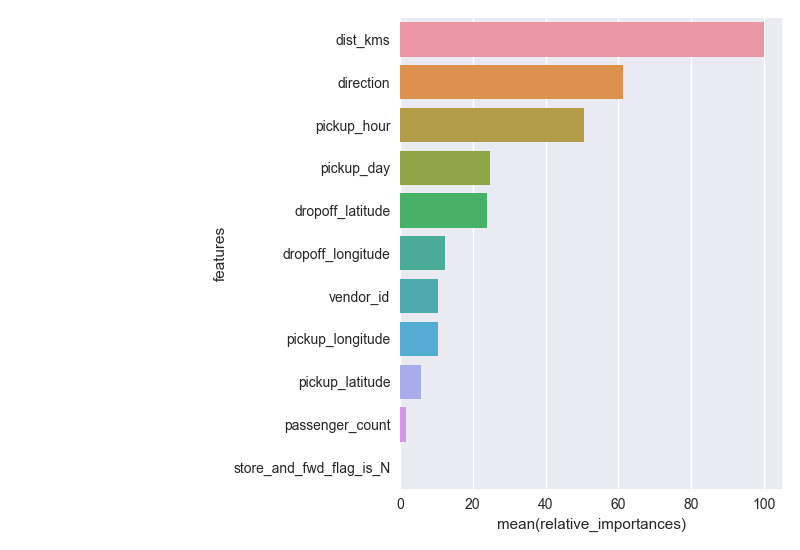
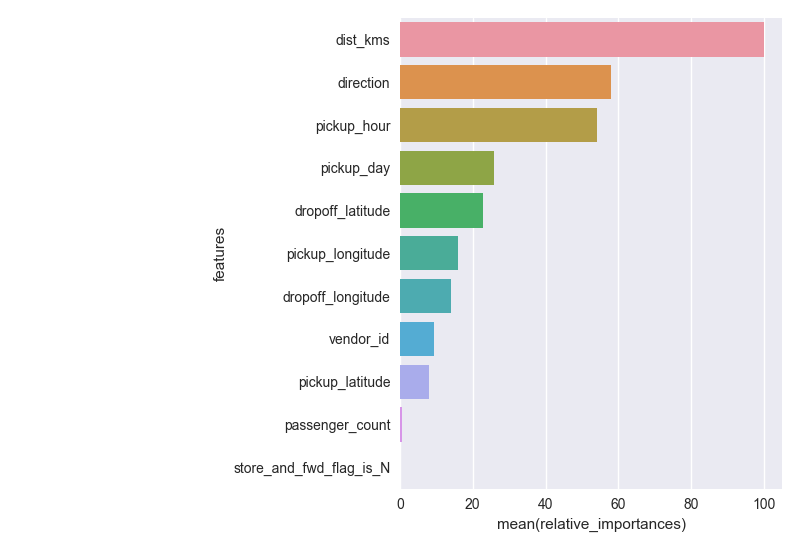
format code, modify readme

diff --git a/nyc_taxi_trip_duration/models/train_predict.py b/nyc_taxi_trip_duration/models/train_predict.py
@@ -15,6 +15,8 @@ from build_features import preprocess
 
 SAMPLE_SIZE = 1000000
 TARGET_VAR = 'trip_duration'
+
+#features to be used for modeling
 FEATURES = [
     'vendor_id',
     'pickup_hour',
@@ -29,6 +31,16 @@ FEATURES = [
     'direction'
     ]
 
+# parameters for gradient boosting regression
+# combination of learning_rate and subsample are used for regularization/
+# controlling overfitting
+GBR_PARAMS = {
+    'learning_rate':0.1,
+    'subsample':0.5,
+    'n_estimators':100
+    }
+
+#parameters for xgboost regression
 XGB_PARAMS = {
     'min_child_weight':50,
     'colsample_bytree':0.3,
@@ -38,14 +50,6 @@ XGB_PARAMS = {
     'silent':1,
     'eval_metric':'rmse',
     'objective': 'reg:linear'
-    }
-
-# combination of learning_rate and subsample are used for regularization/
-# controlling overfitting
-GBR_PARAMS = {
-    'learning_rate':0.1,
-    'subsample':0.5,
-    'n_estimators':100
     }
 
 def read_data(filename):
@@ -65,7 +69,7 @@ def get_regressor():
 
 def get_cv_scores(reg, train_data, train_target):
     """
-        Returns cross validated R squared scores
+        Returns cross validated R squared scores and root mean squared log error (RMSE)
     """
     scorer = make_scorer(r2_score, multioutput='variance_weighted')
     r2_scores = cross_val_score(reg, train_data, train_target, cv=4,
@@ -145,7 +149,7 @@ def train_xgboost(train_data, test_data, train_target, test_target):
     model = xgb.train(XGB_PARAMS, d_train, 200, watchlist, early_stopping_rounds=50,
                       maximize=False, verbose_eval=10)
 
-    print "xgb model results", model
+    print "XGB model results", model
     return model
 
 def get_xgb_submissions(kaggle_test_data, model, filename):
@@ -159,16 +163,16 @@ def get_xgb_submissions(kaggle_test_data, model, filename):
     submission_df = pd.DataFrame(pred_target, ids).reset_index().rename(
                         columns={'index':'id', 0:'trip_duration'})
     submission_df['trip_duration'] = np.exp(submission_df['trip_duration']) - 1
-    print "writing submissions file"
+    print "Writing submissions file"
     submission_df.to_csv(filename, index=False)
     print "Done writing submissions file"
 
 if __name__ == "__main__":
     # read data
-    print 'reading data'
+    print 'Reading data'
     filename = '../data/train.zip'
     df = read_data(filename)
-    print 'done reading data'
+    print 'Done reading data'
 
     df = df.sample(SAMPLE_SIZE)
 
@@ -178,43 +182,46 @@ if __name__ == "__main__":
     # split train and test data
     train_data, validation_data, train_target, validation_target = split_train_test(df)
 
+    print "Training Gradient Boosting Regression Model"
     # get regressor
     reg = get_regressor()
 
     # get cross validated r2_scores
-    print 'running cross validation'
+    print 'Running cross validation'
     start_time = time.time()
     r2_scores, mean_squared_scores = get_cv_scores(reg, train_data, train_target)
-    print 'cross validated r2 scores', r2_scores, np.mean(r2_scores)
-    print 'cross validated rmse', mean_squared_scores, np.mean(mean_squared_scores)
-    print 'time taken', time.time() - start_time
+    print 'Cross validated R squared scores:', r2_scores, np.mean(r2_scores)
+    print 'Cross validated RMSE:', mean_squared_scores, np.mean(mean_squared_scores)
+    print 'Time taken:', time.time() - start_time
 
     # fit data
     print 'Fitting data'
     start_time = time.time()
     fit(reg, train_data, train_target)
-    print 'time taken', time.time() - start_time
+    print 'Time taken:', time.time() - start_time
 
     # plot feature important
+    print 'Plotting feature importance scores'
     imp_df = get_feature_importance(reg)
     plot_feature_imp(imp_df)
 
-    # predict and report metrics for validation  set
-    print 'predicting targets for validation data'
+    # predict and report metrics for validation set
+    print 'Predicting targets for validation data'
     rmse = predict_n_measure(reg, validation_data, validation_target)
-    print "validation set rmse", rmse
+    print "Gradient boosting validation set rmse:", rmse
 
     # train xgboost
-    # model = train_xgboost(train_data, test_data, train_target, test_target)
-    #
-    # # predict and report metrics for validation data
-    # # get validation set
-    # print "Reading test data"
-    # kaggle_test_file = '../data/test.zip'
-    # kaggle_test_data = read_data(kaggle_test_file)
-    # kaggle_test_df = preprocess(kaggle_test_data)
-    # submission_df = predict_kaggle_test_data(reg, kaggle_test_df)
-    # submission_df.to_csv('../data/submission_data_gb.csv', index=False)
-    # print "fitting test data"
-    # xgb_submission_filename = '../data/xgb_submissions.csv'
-    # get_xgb_submissions(kaggle_test_data, model, xgb_submission_filename)
+    print "------------------------------------------------------------------"
+    print "Training XGBOOST Model"
+    model = train_xgboost(train_data, validation_data, train_target, validation_target)
+
+    # make predictions for kaggle test data
+    print "Reading test data"
+    kaggle_test_file = '../data/test.zip'
+    kaggle_test_data = read_data(kaggle_test_file)
+    kaggle_test_df = preprocess(kaggle_test_data)
+    submission_df = predict_kaggle_test_data(reg, kaggle_test_df)
+    submission_df.to_csv('../data/submission_data_gb.csv', index=False)
+    print "Fitting test data"
+    xgb_submission_filename = '../data/xgb_submissions.csv'
+    get_xgb_submissions(kaggle_test_data, model, xgb_submission_filename)

diff --git a/nyc_taxi_trip_duration/models/build_features.py b/nyc_taxi_trip_duration/models/build_features.py
@@ -144,5 +144,4 @@ def preprocess(df):
         df = get_log_trip_duration(df)
     except KeyError:
         pass
-
     return df

diff --git a/nyc_taxi_trip_duration/README.md b/nyc_taxi_trip_duration/README.md
@@ -1,2 +1,17 @@
-## Predicting NYC taxi trip duration
+## Predicting NYC taxi trip duration - Kaggle competition
 ### Kaggle Link: https://www.kaggle.com/c/nyc-taxi-trip-duration#description
+
+### Libraries used
+sklearn
+xgboost
+numpy
+pandas
+seaborn
+matplotlib
+
+### Installing XG Boost Library
+Instructions for installing xgboost can be found here - https://xgboost.readthedocs.io/en/latest//build.html#python-package-installation
+
+### Resources used for model development
+Introduction to boosted trees - https://xgboost.readthedocs.io/en/latest/model.html#tree-boosting
+Sklearn gradient boosting regression documentation - http://scikit-learn.org/stable/modules/generated/sklearn.ensemble.GradientBoostingRegressor.html
